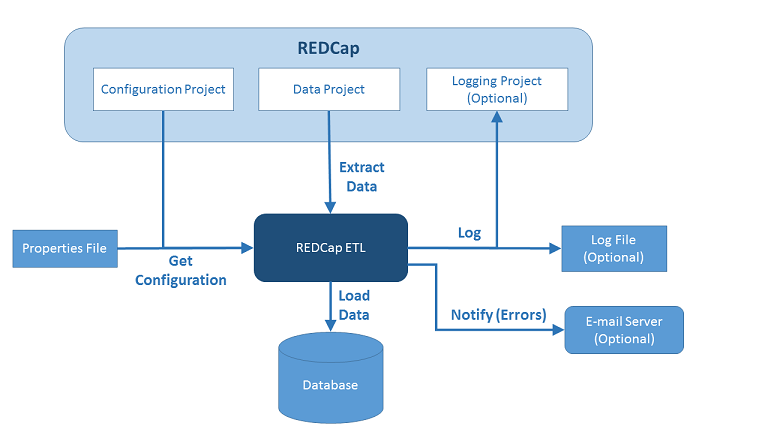
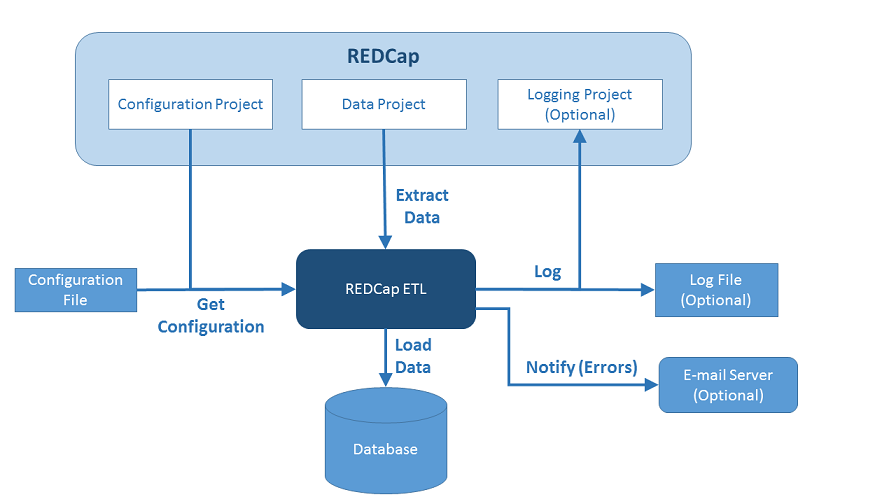
Improved the documentation

diff --git a/docs/ConfigurationGuide.md b/docs/ConfigurationGuide.md
@@ -1,129 +1,80 @@
 REDCap ETL Configuration
 ========================
 
-REDCap ETL requires a configuration file and REDCap project that have information including the following:
+REDCap ETL requires both a configuration file and REDCap configuration project.
+REDCap ETL uses the configuration file to locate the configuration project, so
+the file needs to contain:
 
 * the URL for your REDCap API
-* an API token for the REDCap project that contains the actual data
-* an API token for a logging project that is used by REDCap ETL to log information
-* database connection information for the the database where the extracted data are to be stored
-* a schema map that indicates how data should be mapped from REDCap to the databases
+* the API token for your REDCap configuration project
+
+In addition to these properties, the configuration file can also contain
+optional system properties, such as specification of a file
+that REDCap ETL will log to.
+
+The 3 main things that need to be spefied in the configuration project are:
+
+1. The data source - where the data is extracted from.
+2. The transformation rules - how to transform the data in the data source
+to the target for the data load.
+3. The database - where the extracted and transformed data is loaded
+
+There are some properties that can be specified in both the configuration file
+and configuration project. For these properties, a non-blank value in the 
+configuration project will replace the value in the configuration file
+(which is read first).
 
 
-REDCap ETL Configuration Properties
---------------------------------------
-<table>
-
-<thead>
-<tr> <th>Property</th> <th>File</th> <th>Project</th> <th>Description</th> </tr>
-</thead>
-
-<tbody>
-
-<tr>
-<td>admin_email_list</td>
-<td> X </td> <td> X </td>
-
-<td>The to address list for e-mail notifications sent by REDCap ETL</td>
-</tr>
-
-<tr>
-<td>ca_cert_file</td>
-<td> X </td> <td> &nbsp; </td>
-<td>Certificate authority certificate file. This can be used to support
-SSL verification of the connection to REDCap if your system does not
-provide support for it by default</td>
-</tr>
-
-
-<tr>
-<td>config_api_token</td>
-<td> X </td> <td> &nbsp; </td>
-<td>The REDCap API token for the configuration project</td>
-</tr>
-
-<tr>
-<td>email_subject</td>
-<td> X </td> <td> X </td>
-<td>The subject for e-mail notifications sent by REDCap ETL</td>
-</tr>
-
-<tr>
-<td>from_address</td>
-<td> X </td> <td> X </td>
-<td>The from address for e-mail notifications sent by REDCap ETL</td>
-</tr>
-<tr>
-
-<td>log_file</td>
-<td> X </td> <td> &nbsp; </td>
-<td>File to use for logging</td>
-</tr>
-
-<tr>
-<td>redcap_api_url</td>
-<td> X </td> <td> &nbsp; </td>
-<td>The URL for your REDCap API</td> 
-</tr>
-
-<tr>
-<td>ssl_verify</td>
-<td> X </td> <td> &nbsp; </td>
-<td>Indicates is SSL verification is used for the connection to REDCap.
-This defaults to true. Setting it to false is insecure.</td> 
-</tr>
-
-<tr>
-<td>web_script</td>
-<td> X </td> <td> &nbsp; </td>
-<td>The file name to use for the installed web script used to handle
-REDCap DETs (Data Entry Triggers). The file name 
-should normally end with .php. This is used to allow the ETL
-process to be started from REDCap. You can leave this blank if you
-are not using DETs.</td> 
-</tr>
-
-</tbody>
-</table>
-
-Database connection string
+Data Source
 -----------------------------------
-The database connection string has the following format:
-
-*database-connection-type* : *database-connection-values*
-
-Currently, the only supported database connection types are MySQL and CSV.
+The data source is specified as the REDCap API token for the data project,
+i.e., the REDCap project that has the data to be extracted.
 
 
-### MySSQL
-For MySQL, the *database-connnection-values* format is
+Database
+-----------------------------------
 
-    <host>:<username>:<password>:<database>
+The database where the data is loaded is specified as a
+database connection string. This string has the following format:
+
+        <database-connection-type> : <database-connection-values>
+
+Currently, the supported database connection types are
+
+* **MySQL**
+* **CSV** (comma-separated values).
+
+
+### MySQL
+For MySQL, the format of the database connnection string is:
+
+        MySQL:<host>:<username>:<password>:<database>
 
 Example MySQL database connection strings:
 
-    MySQL:localhost:etl_user:etl_password:etl_test_db
+        MySQL:localhost:etl_user:etl_password:etl_test_db
 
-    MySQL:someplace.edu:admin:admin_password_123:etl_prod_db
+        MySQL:someplace.edu:admin:admin_password_123:etl_prod_db
 
 ### CSV
-For CSV, the *database-connnection-values* format is
+For CSV, the database connnection string format is:
 
-    <output-directory>
+        CSV:<output-directory>
 
 For example:
 
-    CSV:/home/redcapetl/csv/project1
+        CSV:/home/redcap-etl/csv/project1
 
 
-Schema Map
+Transformation Rules
 ---------------------------------------------------
-The schema map specifies how the records in REDCap should be transformed into records in your database. You can enter the map in the Schema Map text box provided, or upload a file containing the map. An uploaded file takes precedence over the Schema Map text box.
+The transformation rules specify how the records in REDCap should be transformed into records in your database. You can enter the map in the transformation rules 
+text box, or upload a file containing the rules.
 
 
-### Relational Schema Map syntax
+### Transformation Rules syntax
 
-Schema maps consists of one or more TABLE statements, where each TABLE statement is followed by one or more FIELD statements.
+Transformation rules consists of one or more TABLE statements, where each TABLE statement is followed by one or more FIELD statements.
 
     TABLE, <table_name>, <parent_table|primary_key_name>, <rows_type>
     FIELD, <field_name>, <field_type>
@@ -270,3 +221,79 @@ Mapping
     TABLE,  Fifth, Main, EVENTS:a;b
     FIELD,  var8, st
 
+
+REDCap ETL Configuration Properties
+--------------------------------------
+<table>
+
+<thead>
+<tr> <th>Property</th> <th>File</th> <th>Project</th> <th>Description</th> </tr>
+</thead>
+
+<tbody>
+
+<tr>
+<td>admin_email_list</td>
+<td> X </td> <td> X </td>
+
+<td>The to address list for e-mail notifications sent by REDCap ETL</td>
+</tr>
+
+<tr>
+<td>ca_cert_file</td>
+<td> X </td> <td> &nbsp; </td>
+<td>Certificate authority certificate file. This can be used to support
+SSL verification of the connection to REDCap if your system does not
+provide support for it by default</td>
+</tr>
+
+
+<tr>
+<td>config_api_token</td>
+<td> X </td> <td> &nbsp; </td>
+<td>The REDCap API token for the configuration project</td>
+</tr>
+
+<tr>
+<td>email_subject</td>
+<td> X </td> <td> X </td>
+<td>The subject for e-mail notifications sent by REDCap ETL</td>
+</tr>
+
+<tr>
+<td>from_address</td>
+<td> X </td> <td> X </td>
+<td>The from address for e-mail notifications sent by REDCap ETL</td>
+</tr>
+<tr>
+
+<td>log_file</td>
+<td> X </td> <td> &nbsp; </td>
+<td>File to use for logging</td>
+</tr>
+
+<tr>
+<td>redcap_api_url</td>
+<td> X </td> <td> &nbsp; </td>
+<td>The URL for your REDCap API</td> 
+</tr>
+
+<tr>
+<td>ssl_verify</td>
+<td> X </td> <td> &nbsp; </td>
+<td>Indicates is SSL verification is used for the connection to REDCap.
+This defaults to true. Setting it to false is insecure.</td> 
+</tr>
+
+<tr>
+<td>web_script</td>
+<td> X </td> <td> &nbsp; </td>
+<td>The file name to use for the installed web script used to handle
+REDCap DETs (Data Entry Triggers). The file name 
+should normally end with .php. This is used to allow the ETL
+process to be started from REDCap. You can leave this blank if you
+are not using DETs.</td> 
+</tr>
+
+</tbody>
+</table>

diff --git a/docs/Installation.md b/docs/Installation.md
@@ -9,7 +9,7 @@ are shown in the diagram below, and described in the text below.
 
 ![alt text](etl-process.png "ETL Process")
 
-* **Properties File.** This file contains the REDCap API URL and REDCap API token for the configuration project, so that it can be accessed by REDCap ETL. In addition, this file contains some server properties, such as the location for writing REDCap ETL log files.
+* **Configuration File.** This file contains the REDCap API URL and REDCap API token for the configuration project, so that it can be accessed by REDCap ETL. In addition, this file contains some server properties, such as the location for writing REDCap ETL log files.
 When the ETL process runs, this is the first file that will be accessed.
 * **REDCap Projects**
     * **Configuration Project.** This project contains configuration         information for the ETL process.
@@ -104,9 +104,20 @@ In REDCap, create a new project using the "Upload a REDCap project XML file " op
 
 ### Step 6 - Create a Configuration File
 
-Configuration files need to be stored in the config directory of the REDCap ETL installation. The file
-**config/config-example.ini** can be copied and then modified.  See this file for more information
-about the properties that need to be set.
+A configuration file needs to be created in addition to the
+configuration project. At a minimum, this file needs to have your
+REDCap API's URL, and the REDCap API token of your configuration project,
+so that REDCap ETL knows how to access your configuration project.
+
+The standard place to store configuration files is in the **config/**
+directory of the REDCap ETL installation. This is the default directory
+that the web script installation script (see below) will search for configuration
+files.
+
+To create a new configuration file, the file **config/config-example.ini**
+can be copied and then modified.
+See this file for more information about the properties that need to be set.
+
 
 ### Step 7 (Optional) - Set up an E-mail Server
 
